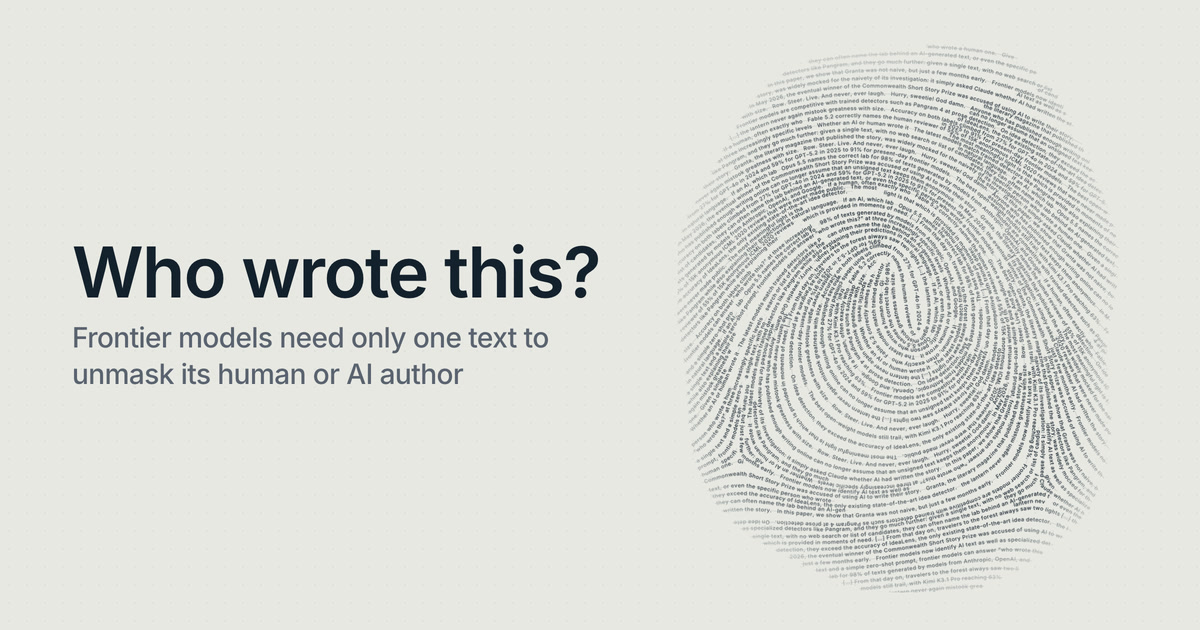
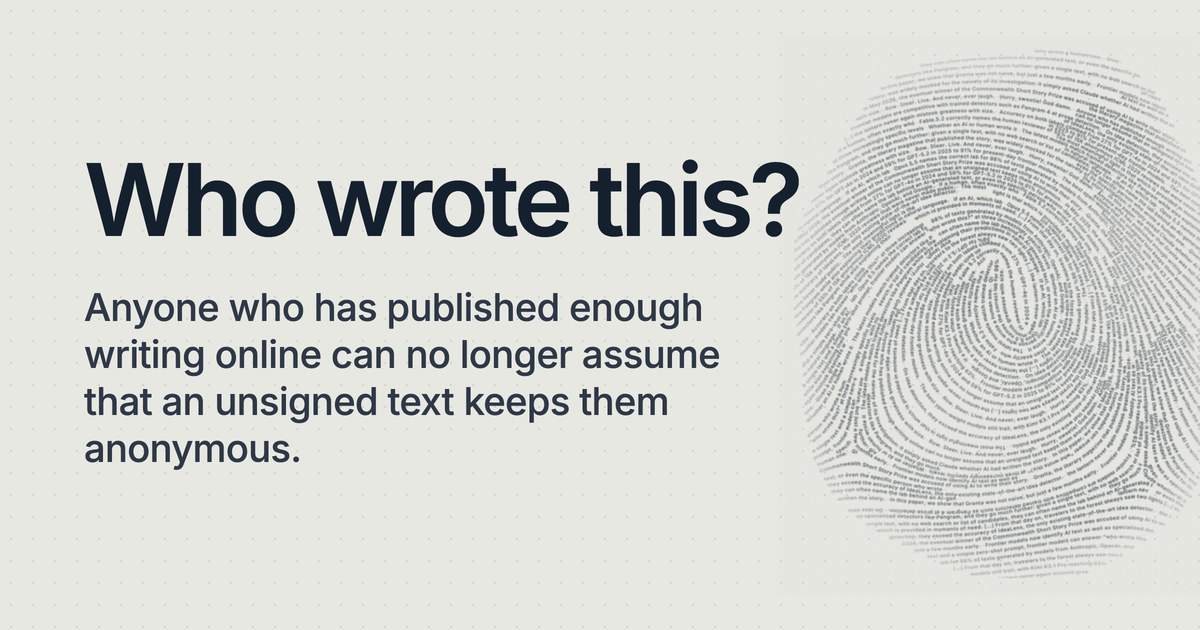
Who wrote this: simpler link card (the title and the closing line beside a faint fingerprint)

Changed region(s): [[0.0617, 0.0603, 1.0, 0.9349], [0.0617, 0.6937, 0.2467, 0.754]]

diff --git a/src/content/posts/who-wrote-this.md b/src/content/posts/who-wrote-this.md
@@ -7,7 +7,7 @@ excerpt: "Frontier models need only one text to unmask its human or AI author"
 seoTitle: "Who wrote this? Frontier models need only one text to unmask its human or AI author"
 seoDescription: "Given a single text and a simple zero-shot prompt, frontier models can answer who wrote this at three increasingly specific levels: whether an AI or human wrote it, if an AI, which lab, and if a human, often exactly who."
 image: "/images/og/who-wrote-this.jpg"
-imageAlt: "A fingerprint whose ridges are lines of text, beside the title Who wrote this? Frontier models need only one text to unmask its human or AI author."
+imageAlt: "Who wrote this? Anyone who has published enough writing online can no longer assume that an unsigned text keeps them anonymous. Beside it, a fingerprint whose ridges are lines of text."
 published: true
 unlisted: true
 ---
